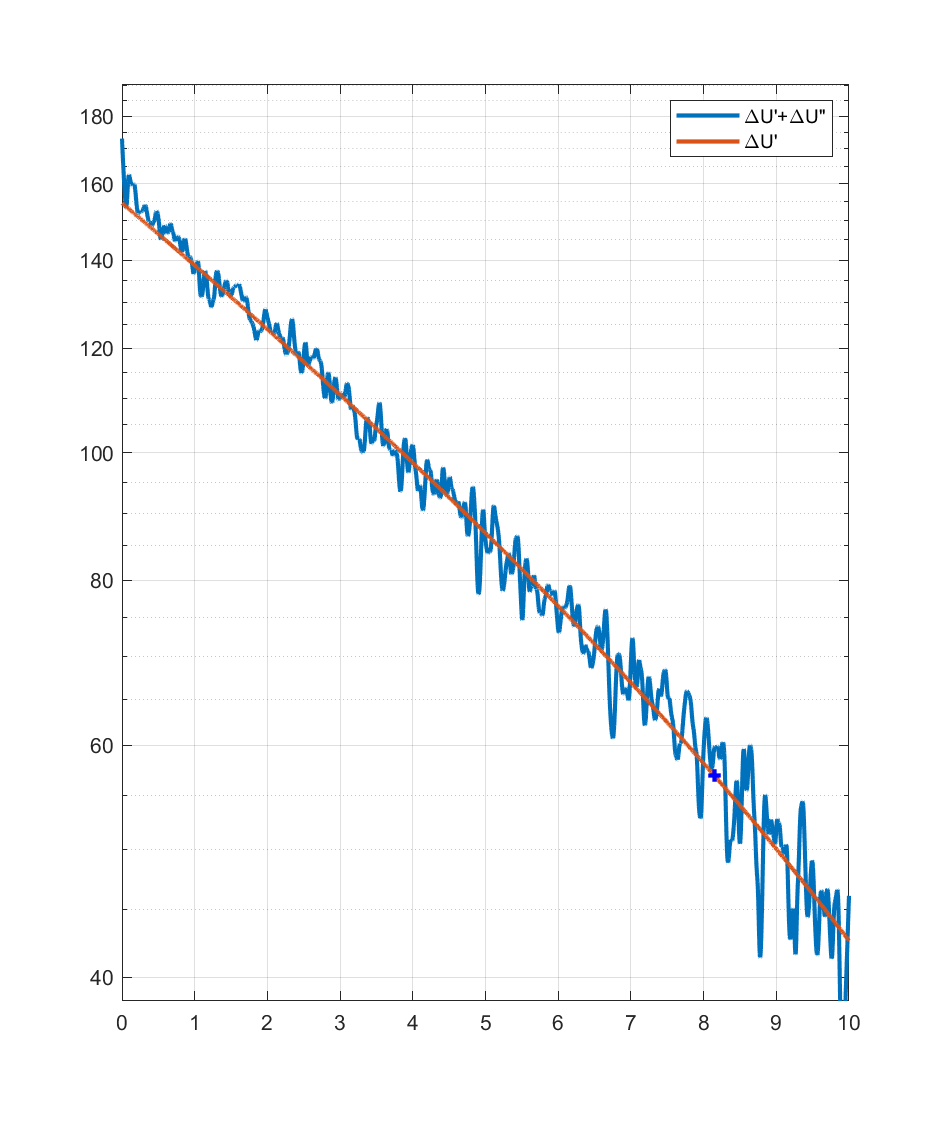
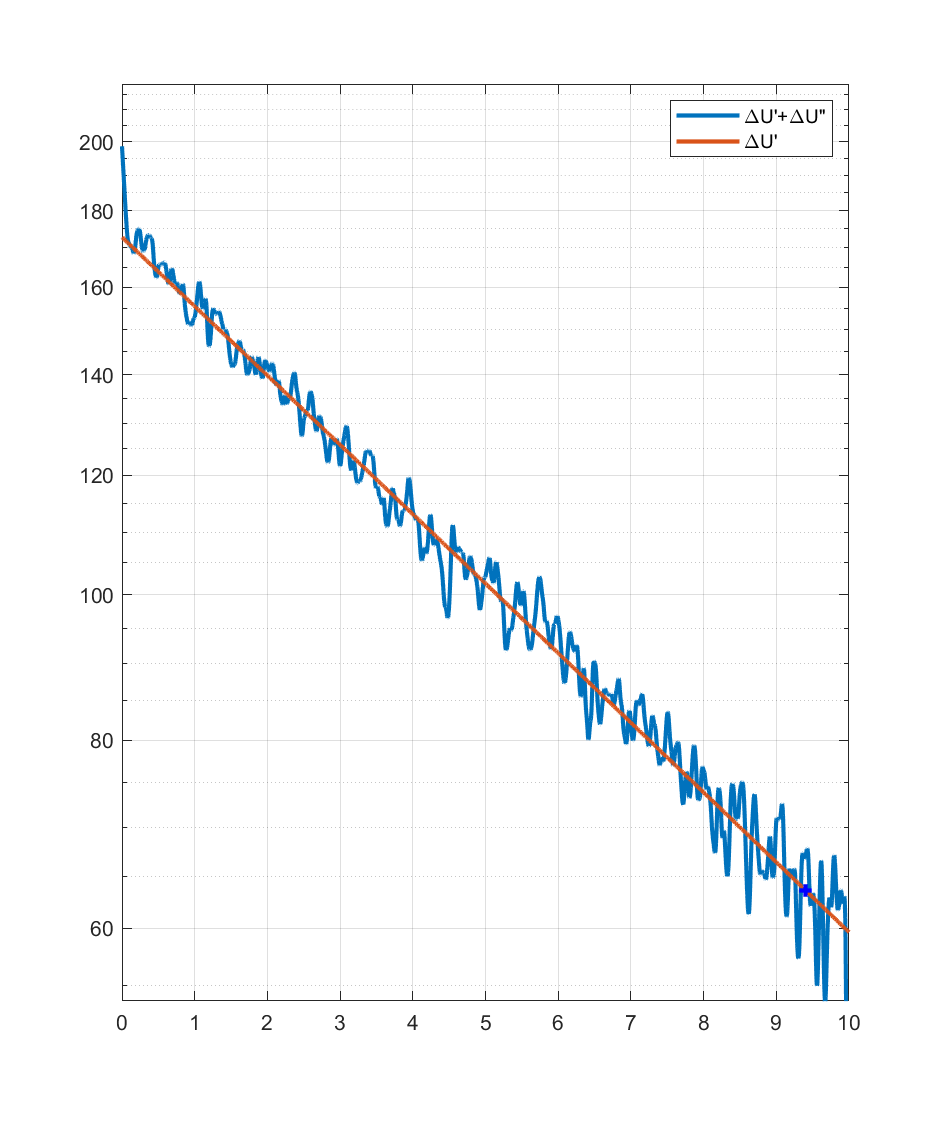
Add import signal without base

diff --git a/voltage-recovery/VoltageRecovery.m b/voltage-recovery/VoltageRecovery.m
@@ -4,15 +4,16 @@ clear;
 
 % Main path and data file
 paths;
-opt = options_i170A;
+opt = options_rt;
 mfilepath = fullfile(pwd, 'data\mat', opt.name);
 load(mfilepath);
 data = decreaseStep(data, opt); 
 
-voltageCalculation(data, -data.VoltageA+data.VoltageB, opt, "Voltage AB");
-voltageCalculation(data, -data.VoltageC+data.VoltageB, opt, "Voltage BC");
-voltageCalculation(data, data.VoltageC-data.VoltageA, opt, "Voltage CA");
 
+voltageCalculation(data, data.VoltageA+data.VoltageB, opt, "Voltage AB");
+voltageCalculation(data, data.VoltageC+data.VoltageB, opt, "Voltage BC");
+voltageCalculation(data, data.VoltageC-data.VoltageA, opt, "Voltage CA");
+nil = data.VoltageA+data.VoltageB+data.VoltageC;
 % voltageCalculation(data, data.VoltageA, opt, "Voltage AB");
 % voltageCalculation(data, data.VoltageB, opt, "Voltage BC");
 % voltageCalculation(data, data.VoltageC, opt, "Voltage CA");

diff --git a/voltage-recovery/data/mat/options_rt.m b/voltage-recovery/data/mat/options_rt.m
@@ -20,7 +20,7 @@ function options = options_rt()
     endTime = startTime + durationTime; 
     endNumber = int32(endTime/disTime);
     % Initial filter for raw signal "medfilt1"
-    iFilter = 2;    
+    iFilter = 1;    
     % Filter for smoothness
     nFilter = .01;
     % Spline discretization [s]
